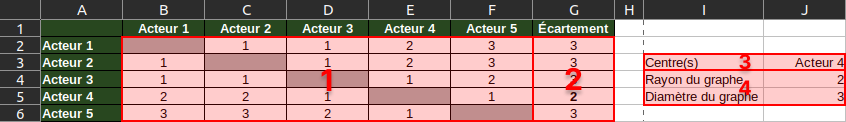
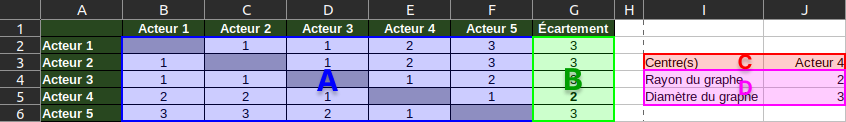
Correction du TP

diff --git a/src/docs/snt/03-reseaux-sociaux/tp-etude-reseau-social/activite2.md b/src/docs/snt/03-reseaux-sociaux/tp-etude-reseau-social/activite2.md
@@ -38,10 +38,10 @@ Une fois le(s) centre(s) trouvé(s), il vous restera à préciser le rayon et le
     La numérotation en surimpression correspond à la liste des caractéristiques mentionnées plus haut et à déterminer pour
     votre propre graphe :
 
-    1. Les distances *(nombre minimum d'arêtes reliant deux sommets)*
-    2. Les écartements *(la plus grande distance** entre un sommet et les autres sommets du graphe)*
-    3. Le ou les centres *(sommet(s) dont l'écartement** est le plus petit)*  
-    4. Le rayon et le diamètre *(plus petit et plus grand écartement)*  
+    - **A** - Les distances (nombre minimum d'arêtes entre un sommet et tous les autres du graphe)
+    - **B** - Les écartements (la plus distance d'un sommet)
+    - **C** - Le ou les centres (sommet(s) dont l'écartement est le plus petit)
+    - **D** - Le rayon (plus petit écartement) et le diamètre (plus grand écartement)
 
     <figure markdown>
         ![selecteur_type](images/specification_table.png){:style="max-width:100%;border:1px solid black;"}
@@ -61,14 +61,6 @@ Une fois le(s) centre(s) trouvé(s), il vous restera à préciser le rayon et le
         - Il y a une distance de 1 entre *Cillian M.* et *Tom H.* car ils sont directement liés par une arête
     4. Complétez le tableau
 
-!!! warning "Attention"
-
-    Pensez à enregistrer **fréquemment** votre travail. Nommez correctement votre fichier en précisant votre classe, votre
-    nom ainsi qu'un mot-clé en rapport avec son contenu. Exemple :
-
-    - `SEC01_Mark_Zukerberg_caracteristiques.ods` *(.ods est l'extension des fichiers LibreOffice Calc)*<br />
-    - `SEC01_Mark_Zukerberg_caracteristiques.xlsx` *(.xlsx est l'extension des fichiers Microsoft Excel)*
-
 ## Envoi du travail
 
 Une fois votre tableau complété, vous pouvez le déposer sur Pronote.
@@ -77,7 +69,7 @@ Une fois votre tableau complété, vous pouvez le déposer sur Pronote.
 
     1. Connectez-vous à l'ENT : [:material-link: https://monlycee.net](https://monlycee.net/){:target="_blank"}
     3. Accédez à l'application **Pronote**
-    4. Depuis l'accueil, recherchez le devoir **SNT03 - 2. Caractéristiques d'un graphe**
+    4. Depuis l'accueil, recherchez le devoir intitulé **SNT03 - 2. Caractéristiques d'un graphe**
     5. Cliquez sur le bouton <span class="pronote-button">Déposer ma copie</span>
     6. Cliquez sur le bouton **Un seul fichier (*.pdf, *.doc, ...)**
     7. Déposez votre fichier tableur
